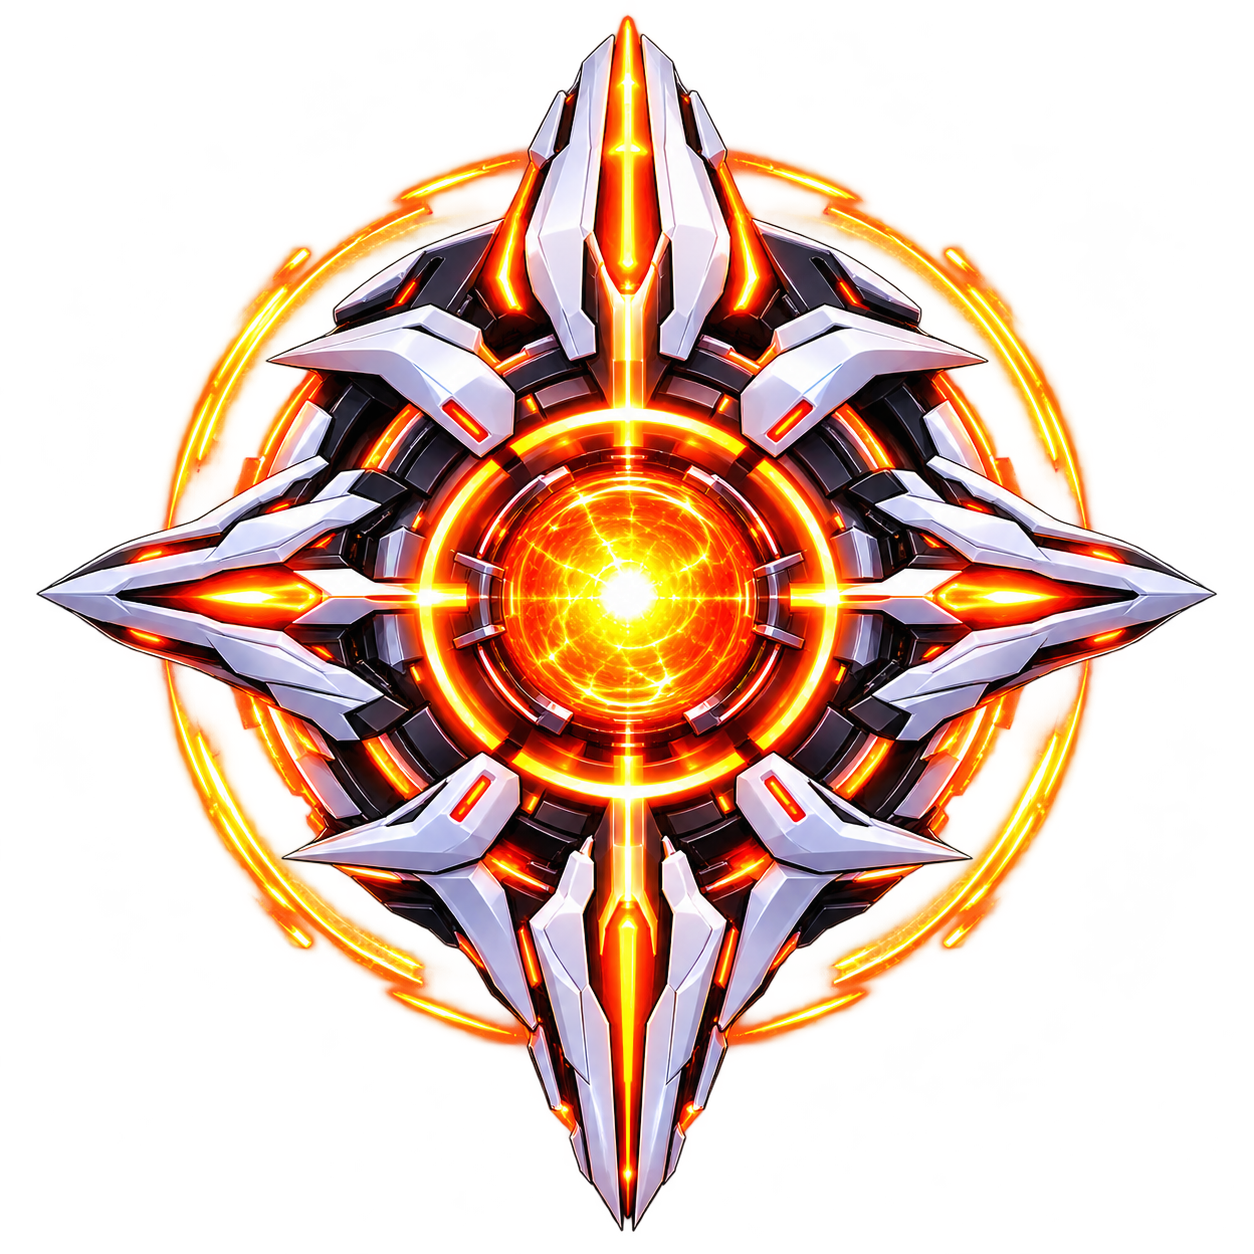
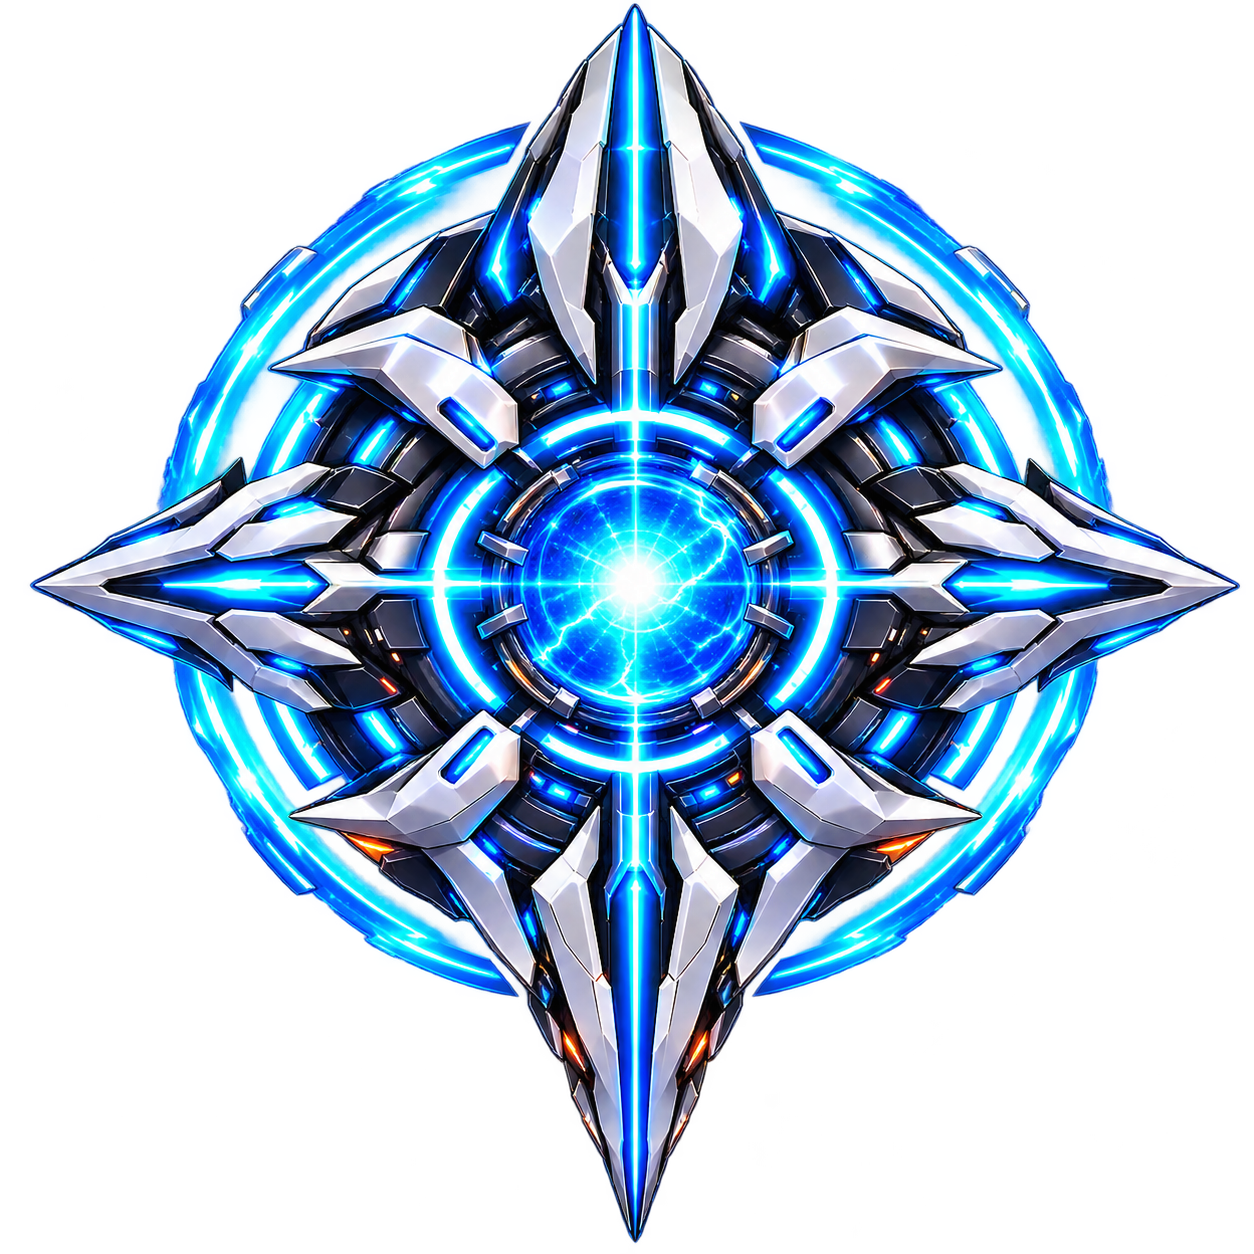
update 2.9

diff --git a/script.js b/script.js
@@ -143,6 +143,48 @@ document.addEventListener("DOMContentLoaded", () => {
     revealElements.forEach((element) => observer.observe(element));
   }
 
+  const footerBrand = document.querySelector(".footer-brand");
+  const footerImageStack = footerBrand?.querySelector(".footer-brand-image-stack");
+  const revealImage = footerImageStack?.querySelector(".footer-brand-image-reveal");
+  const supportsImageMask =
+    typeof CSS !== "undefined" &&
+    (CSS.supports("mask-image", "radial-gradient(circle, #000, transparent)") ||
+      CSS.supports("-webkit-mask-image", "radial-gradient(circle, #000, transparent)"));
+
+  if (cursorMedia.matches && footerBrand && footerImageStack && revealImage && supportsImageMask) {
+    let pointerX = 0;
+    let pointerY = 0;
+    let revealFrame = 0;
+
+    const renderReveal = () => {
+      revealImage.style.setProperty("--reveal-x", `${pointerX}px`);
+      revealImage.style.setProperty("--reveal-y", `${pointerY}px`);
+      revealImage.classList.add("is-active");
+      revealFrame = 0;
+    };
+
+    footerBrand.addEventListener("pointermove", (event) => {
+      if (event.pointerType !== "mouse") return;
+
+      const bounds = footerImageStack.getBoundingClientRect();
+      pointerX = event.clientX - bounds.left;
+      pointerY = event.clientY - bounds.top;
+
+      if (!revealFrame) {
+        revealFrame = window.requestAnimationFrame(renderReveal);
+      }
+    });
+
+    footerBrand.addEventListener("pointerleave", () => {
+      if (revealFrame) {
+        window.cancelAnimationFrame(revealFrame);
+        revealFrame = 0;
+      }
+
+      revealImage.classList.remove("is-active");
+    });
+  }
+
   const progressBars = document.querySelectorAll(".progress-bar");
   if (!("IntersectionObserver" in window)) {
     progressBars.forEach((bar) => bar.classList.add("is-visible"));

diff --git a/style.css b/style.css
@@ -23,7 +23,7 @@ body {
     min-height: 100vh;
     min-height: 100dvh;
     margin: 0;
-  cursor:url("src/Ecore.png"), auto;
+  cursor:url("src/cursor3.png"), auto;
 }
 
 section {
@@ -3462,6 +3462,48 @@ body.menu-open .menu-backdrop {
 }
 
 
+.footer-brand-image-stack {
+  position: relative;
+  width: 40%;
+  aspect-ratio: 1;
+  margin-top: 10px;
+}
+
+.footer-brand-image-stack img {
+  position: absolute;
+  inset: 0;
+  display: block;
+  width: 100%;
+  height: 100%;
+  object-fit: contain;
+}
+
+.footer-brand-image-reveal {
+  opacity: 0;
+  pointer-events: none;
+}
+
+@media (hover: hover) and (pointer: fine) and (min-width: 768px) and (prefers-reduced-motion: no-preference) {
+  .footer-brand-image-reveal {
+    transition: opacity 180ms ease;
+    -webkit-mask-image: radial-gradient(
+      circle 110px at var(--reveal-x, -1000px) var(--reveal-y, -1000px),
+      #000 0 82px,
+      transparent 110px
+    );
+    mask-image: radial-gradient(
+      circle 110px at var(--reveal-x, -1000px) var(--reveal-y, -1000px),
+      #000 0 82px,
+      transparent 110px
+    );
+  }
+
+  .footer-brand-image-reveal.is-active {
+    opacity: 1;
+  }
+}
+
+
 /* Footer columns */
 
 .footer-column {
@@ -4076,6 +4118,11 @@ html.boot-pending .loading-page,
   transform: translateY(0);
 }
 
+.footer-brand.reveal,
+.footer-brand.reveal.is-visible {
+  transform: none;
+}
+
 .footerimage.reveal {
   transform: translateY(35px) scale(0.92);
 }
@@ -4092,7 +4139,8 @@ html.boot-pending .loading-page,
     transition: none;
   }
 
-  .footerimage img {
+  .footerimage img,
+  .footer-brand img {
     animation: none;
   }
 }

diff --git a/index.html b/index.html
@@ -1295,6 +1295,16 @@
                             creative developer crafting digital experiences.
                         </p>
 
+                        <div class="footer-brand-image-stack">
+                            <img class="footer-brand-image-base" src="src/mech2.png" alt="Mecha artwork">
+                            <img
+                                class="footer-brand-image-reveal"
+                                src="src/mech.png"
+                                alt=""
+                                aria-hidden="true"
+                            >
+                        </div>
+
                     </div>
 
 
